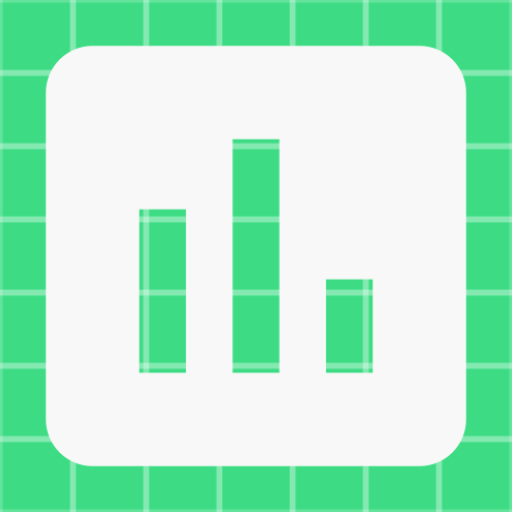
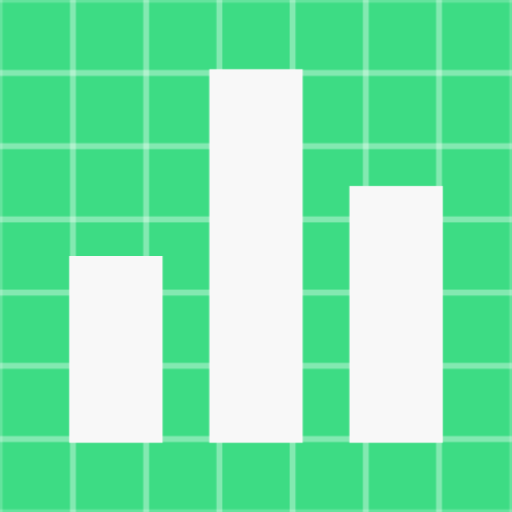
Add statistics

diff --git a/app/src/main/java/com/example/translearn/NotificationFragment.kt b/app/src/main/java/com/example/translearn/NotificationFragment.kt
@@ -11,16 +11,23 @@ import android.view.LayoutInflater
 import android.view.View
 import android.view.ViewGroup
 import androidx.annotation.RequiresApi
+import androidx.lifecycle.Observer
+import androidx.lifecycle.ViewModelProviders
 import com.example.translearn.notification.AlarmReceiver
+import com.example.translearn.viewmodel.NotificationVievModel
+import com.example.translearn.viewmodel.TransTextViewModel
 import kotlinx.android.synthetic.main.notification_fragment.*
 import java.util.*
+import kotlin.random.Random as KotlinRandomRandom
 
 /**
  * A simple [Fragment] subclass.
  */
 class NotificationFragment : Fragment() {
+    private lateinit var viewModel: NotificationVievModel
     private var alarmMgr: AlarmManager? = null
     private lateinit var alarmIntent: PendingIntent
+    private var intentNr: Int = 0
     override fun onCreateView(
         inflater: LayoutInflater, container: ViewGroup?,
         savedInstanceState: Bundle?
@@ -30,16 +37,30 @@ class NotificationFragment : Fragment() {
     }
 
     @RequiresApi(Build.VERSION_CODES.M)
-    override fun onViewCreated(view: View, savedInstanceState: Bundle?) {
-        super.onViewCreated(view, savedInstanceState)
+    override fun onActivityCreated(savedInstanceState: Bundle?) {
+        super.onActivityCreated(savedInstanceState)
+        viewModel = ViewModelProviders.of(this).get(NotificationVievModel::class.java)
+        viewModel.notification.observe(viewLifecycleOwner, Observer {
+            val details: String
+            if (it.isNullOrEmpty()) {
+                details = "Notification not set"
+            } else if (it[0].minute < 10) {
+                details = "Notification set on: ${it[0].hour}:0${it[0].minute}"
+            } else {
+                details = "Notification set on: ${it[0].hour}:${it[0].minute}"
+            }
+            notification_details_text.text=details
+        })
         time_picker.setIs24HourView(true)
         set_notification_button.setOnClickListener {
             val hour: Int = time_picker.hour
             val minutes: Int = time_picker.minute
-            val details = "Notification set on: ${hour}:${minutes}"
-            notification_details_text.text=details
-            time_picker
+            viewModel.addOrUpdateNotification(hour, minutes)
             setAlarm(hour, minutes)
+        }
+        cancel_notification_button.setOnClickListener {
+            cancelAlarm()
+            viewModel.deleteNotification()
         }
     }
 
@@ -47,14 +68,33 @@ class NotificationFragment : Fragment() {
     private fun setAlarm(hour: Int, minutes: Int) {
         alarmMgr = context?.getSystemService(Context.ALARM_SERVICE) as AlarmManager
         alarmIntent = Intent(context, AlarmReceiver::class.java).let { intent ->
-            PendingIntent.getBroadcast(context, 1, intent, 0)
+            PendingIntent.getBroadcast(context, intentNr, intent, PendingIntent.FLAG_UPDATE_CURRENT)
+        }
+        alarmMgr?.cancel(alarmIntent)
+        alarmIntent.cancel()
+        intentNr = KotlinRandomRandom(System.nanoTime()).nextInt(10000)
+        alarmIntent = Intent(context, AlarmReceiver::class.java).let { intent ->
+            PendingIntent.getBroadcast(context, intentNr, intent, PendingIntent.FLAG_UPDATE_CURRENT)
         }
         val calendar = Calendar.getInstance()
         calendar.set(Calendar.HOUR_OF_DAY, hour)
         calendar.set(Calendar.MINUTE, minutes)
         calendar.set(Calendar.SECOND, 0)
-       // alarmMgr?.setRepeating(AlarmManager.RTC_WAKEUP, calendar.timeInMillis, 1000 * 60 * 10, alarmIntent)
-        alarmMgr?.setExact(AlarmManager.RTC_WAKEUP, calendar.timeInMillis, alarmIntent )
+        val dayInMillis :Long = 1000 * 60 * 60 * 24
+        alarmMgr?.setRepeating(AlarmManager.RTC_WAKEUP, calendar.timeInMillis, dayInMillis, alarmIntent)
     }
 
+    private fun cancelAlarm() {
+        alarmMgr = context?.getSystemService(Context.ALARM_SERVICE) as AlarmManager
+        alarmIntent = Intent(context, AlarmReceiver::class.java).let { intent ->
+            PendingIntent.getBroadcast(context, intentNr, intent, PendingIntent.FLAG_UPDATE_CURRENT)
+        }
+        alarmMgr?.cancel(alarmIntent)
+        alarmIntent.cancel()
+    }
+
+    override fun onResume() {
+        super.onResume()
+        viewModel.onResume()
+    }
 }

diff --git a/app/src/main/java/com/example/translearn/db/Repository.kt b/app/src/main/java/com/example/translearn/db/Repository.kt
@@ -20,11 +20,20 @@ data class UserData (
     constructor(user: User): this(id = user.id, score = user.score, name = user.name)
 }
 
+data class NotificationData (
+    val id: String = UUID.randomUUID().toString(),
+    var hour: Int = 0,
+    var minute: Int = 0
+) {
+    constructor(notification: Notification): this(id = notification.id, hour = notification.hour, minute = notification.minute)
+}
+
 object Repository {
 
 //    private var tTextsList  = mutableListOf<TransTextData>()
     private val tTextDao: TranslatedTextDao = MainActivity.appDatabase!!.translatedTextDao()
     private val userDao: UserDao = MainActivity.appDatabase!!.userDao()
+    private val notificationDao: NotificationDao = MainActivity.appDatabase!!.notificationDao()
 
     fun addUser(id: String, name: String) {
         userDao.insert(User(UserData(id = id, name = name)))
@@ -44,6 +53,26 @@ object Repository {
         }
     }
 
+    fun addNotification(id: String, hour: Int, minute: Int) {
+        val notificationFromDB = fetchNotification()
+        when {
+            notificationFromDB.isEmpty() -> {
+                notificationDao.insert(Notification(id, hour, minute))
+            }
+            else -> {
+                notificationDao.update(Notification(notificationFromDB[0].id, hour, minute))
+            }
+        }
+    }
+
+    fun deleteNotification() {
+        val notificationFromDB = fetchNotification()
+        if (notificationFromDB.isNotEmpty()) {
+            notificationDao.delete(Notification(id = notificationFromDB[0].id, hour = notificationFromDB[0].hour, minute = notificationFromDB[0].minute))
+        }
+    }
+
+    fun fetchNotification(): List<NotificationData> = notificationDao.all!!.map { NotificationData(it!!) }
     fun fetchLang(lang: String): List<TransTextData> = tTextDao.findByLang(lang)!!.map{ TransTextData(it!!) }
     fun fetchThreeRandom(lang: String): List<TransTextData> = tTextDao.getThreeRandomByLang(lang)!!.map{ TransTextData(it!!) }
     private fun fetchText(text: String, lang: String): List<TransTextData> = tTextDao.findByText(text, lang)!!.map{ TransTextData(it!!) }

diff --git a/app/src/main/java/com/example/translearn/ChoiceQuizFragment.kt b/app/src/main/java/com/example/translearn/ChoiceQuizFragment.kt
@@ -41,9 +41,9 @@ class ChoiceQuizFragment : Fragment() {
         viewModel.translatedTexts.observe(viewLifecycleOwner, Observer {
             generateQuestion(it)
         })
-        val questNr = "Question ${viewModel.question_number.value}/5"
+        val questNr = "Question ${viewModel.questionNumber.value}/5"
         question_number_text_view.text= questNr
-        viewModel.question_number.observe(viewLifecycleOwner, Observer {
+        viewModel.questionNumber.observe(viewLifecycleOwner, Observer {
             val questionNr = "Question ${it}/5"
             question_number_text_view.text= questionNr
         })
@@ -53,7 +53,7 @@ class ChoiceQuizFragment : Fragment() {
             val scoreStr = "Score: $it"
             score_text_view.text=scoreStr
         })
-        if (viewModel.question_number.value!! >= questionCount) {
+        if (viewModel.questionNumber.value!! >= questionCount) {
             viewModel.reset_question_number()
             viewModel.reset_score()
         }
@@ -67,13 +67,14 @@ class ChoiceQuizFragment : Fragment() {
             } else {
                 Toast.makeText(context, "Wrong :(", Toast.LENGTH_SHORT).show()
             }
-            if(viewModel.question_number.value!! >= questionCount) {
+            if(viewModel.questionNumber.value!! >= questionCount) {
                 val action = ChoiceQuizFragmentDirections.actionChoiceQuizFragmentToEndQuizFragment(viewModel.score.value!!)
                 this.findNavController().navigate(action)
+            } else {
+                viewModel.increment_question_number()
+                viewModel.onResume(args.learnLangCode)
             }
             answers_button_group.clearCheck()
-            viewModel.increment_question_number()
-            viewModel.onResume(args.learnLangCode)
         }
     }
 

diff --git a/app/src/main/java/com/example/translearn/viewmodel/NotificationVievModel.kt b/app/src/main/java/com/example/translearn/viewmodel/NotificationVievModel.kt
@@ -1,0 +1,30 @@
+package com.example.translearn.viewmodel
+
+import androidx.lifecycle.LiveData
+import androidx.lifecycle.MutableLiveData
+import androidx.lifecycle.ViewModel
+import com.example.translearn.db.NotificationData
+import com.example.translearn.db.Repository
+import java.util.*
+
+class NotificationVievModel : ViewModel() {
+    private val repository: Repository = Repository
+
+    private val _notification = MutableLiveData<List<NotificationData>>()
+    val notification: LiveData<List<NotificationData>>
+        get() = _notification
+
+    fun addOrUpdateNotification(hour: Int, minute: Int) {
+        repository.addNotification(UUID.randomUUID().toString(), hour, minute)
+        _notification.value=repository.fetchNotification()
+    }
+
+    fun deleteNotification() {
+        repository.deleteNotification()
+        _notification.value=repository.fetchNotification()
+    }
+
+    fun onResume() {
+        _notification.value=repository.fetchNotification()
+    }
+}

diff --git a/app/src/main/java/com/example/translearn/notification/AlarmReceiver.kt b/app/src/main/java/com/example/translearn/notification/AlarmReceiver.kt
@@ -1,5 +1,6 @@
 package com.example.translearn.notification
 
+import android.app.Notification
 import android.content.BroadcastReceiver
 import android.content.Context
 import android.content.Intent
@@ -8,6 +9,9 @@ import androidx.core.app.NotificationManagerCompat
 import com.example.translearn.R
 
 class AlarmReceiver: BroadcastReceiver() {
+    companion object {
+        private var id = 1
+    }
     override fun onReceive(context: Context?, intent: Intent?) {
         val builder = NotificationCompat.Builder(context!!, "channel_id")
             .setSmallIcon(R.drawable.notification_foreground)
@@ -15,7 +19,8 @@ class AlarmReceiver: BroadcastReceiver() {
             .setContentText("Time to learn!")
         with(NotificationManagerCompat.from(context)) {
             // notificationId is a unique int for each notification that you must define
-            notify(1, builder.build())
+            notify(id, builder.build())
+            return@with id++
         }
     }
 }

diff --git a/app/src/main/java/com/example/translearn/db/Notification.kt b/app/src/main/java/com/example/translearn/db/Notification.kt
@@ -1,0 +1,28 @@
+package com.example.translearn.db
+
+import androidx.room.ColumnInfo
+import androidx.room.Entity
+import androidx.room.PrimaryKey
+
+@Entity
+class Notification {
+    @PrimaryKey
+    var id: String
+    //TODO change to number of learned phrases
+    @ColumnInfo(name = "hour")
+    var hour: Int
+    @ColumnInfo(name = "minute")
+    var minute: Int
+
+    constructor(notificationData: NotificationData) {
+        id = notificationData.id
+        hour = notificationData.hour
+        minute = notificationData.minute
+    }
+
+    constructor(id: String, hour: Int, minute:Int) {
+        this.id = id
+        this.hour = hour
+        this.minute = minute
+    }
+}

diff --git a/app/src/main/java/com/example/translearn/StatisticsFragment.kt b/app/src/main/java/com/example/translearn/StatisticsFragment.kt
@@ -1,0 +1,22 @@
+package com.example.translearn
+
+import android.os.Bundle
+import androidx.fragment.app.Fragment
+import android.view.LayoutInflater
+import android.view.View
+import android.view.ViewGroup
+
+/**
+ * A simple [Fragment] subclass.
+ */
+class StatisticsFragment : Fragment() {
+
+    override fun onCreateView(
+        inflater: LayoutInflater, container: ViewGroup?,
+        savedInstanceState: Bundle?
+    ): View? {
+        // Inflate the layout for this fragment
+        return inflater.inflate(R.layout.statistics_fragment, container, false)
+    }
+
+}

diff --git a/app/src/main/java/com/example/translearn/viewmodel/ChoiceQuizViewModel.kt b/app/src/main/java/com/example/translearn/viewmodel/ChoiceQuizViewModel.kt
@@ -9,7 +9,7 @@ import com.example.translearn.db.TransTextData
 class ChoiceQuizViewModel: ViewModel() {
     private val repository: Repository = Repository
     private val _question_number=MutableLiveData<Int>(1)
-    val question_number: LiveData<Int>
+    val questionNumber: LiveData<Int>
     get() = _question_number
 
     private val _score = MutableLiveData<Int>(0)
@@ -38,6 +38,10 @@ class ChoiceQuizViewModel: ViewModel() {
 
     fun reset_score() {
         _score.value = 0
+    }
+
+    fun save_score() {
+
     }
 
     private fun refreshTexts(lang: String) {

diff --git a/app/src/main/java/com/example/translearn/db/NotificationDao.kt b/app/src/main/java/com/example/translearn/db/NotificationDao.kt
@@ -1,0 +1,23 @@
+package com.example.translearn.db
+
+import androidx.lifecycle.LiveData
+import androidx.room.*
+
+@Dao
+interface NotificationDao {
+
+    @get:Query("SELECT * FROM Notification")
+    val all: List<Notification?>?
+
+//    @Query("SELECT * FROM Notification")
+//    fun find(): List<Notification?>?
+
+    @Insert(onConflict = OnConflictStrategy.REPLACE)
+    fun insert(notification: Notification?)
+
+    @Update
+    fun update(notification: Notification?)
+
+    @Delete
+    fun delete(notification: Notification?)
+}

diff --git a/app/src/main/java/com/example/translearn/db/Database.kt b/app/src/main/java/com/example/translearn/db/Database.kt
@@ -3,8 +3,9 @@ package com.example.translearn.db
 import androidx.room.Database
 import androidx.room.RoomDatabase
 
-@Database(entities = [TranslatedText::class, User::class], version=1)
+@Database(entities = [TranslatedText::class, User::class, Notification::class], version=1)
 abstract class Database: RoomDatabase() {
     abstract fun translatedTextDao(): TranslatedTextDao
     abstract fun userDao(): UserDao
+    abstract fun notificationDao(): NotificationDao
 }
